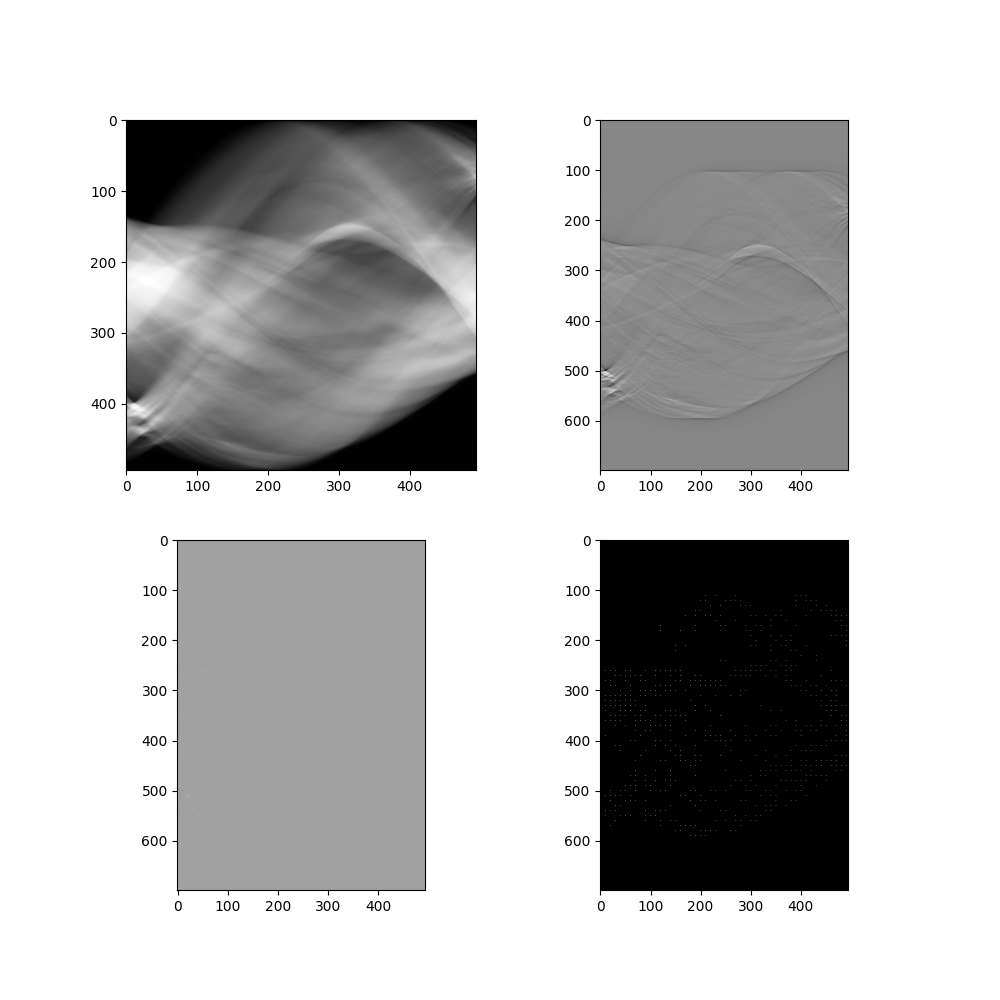
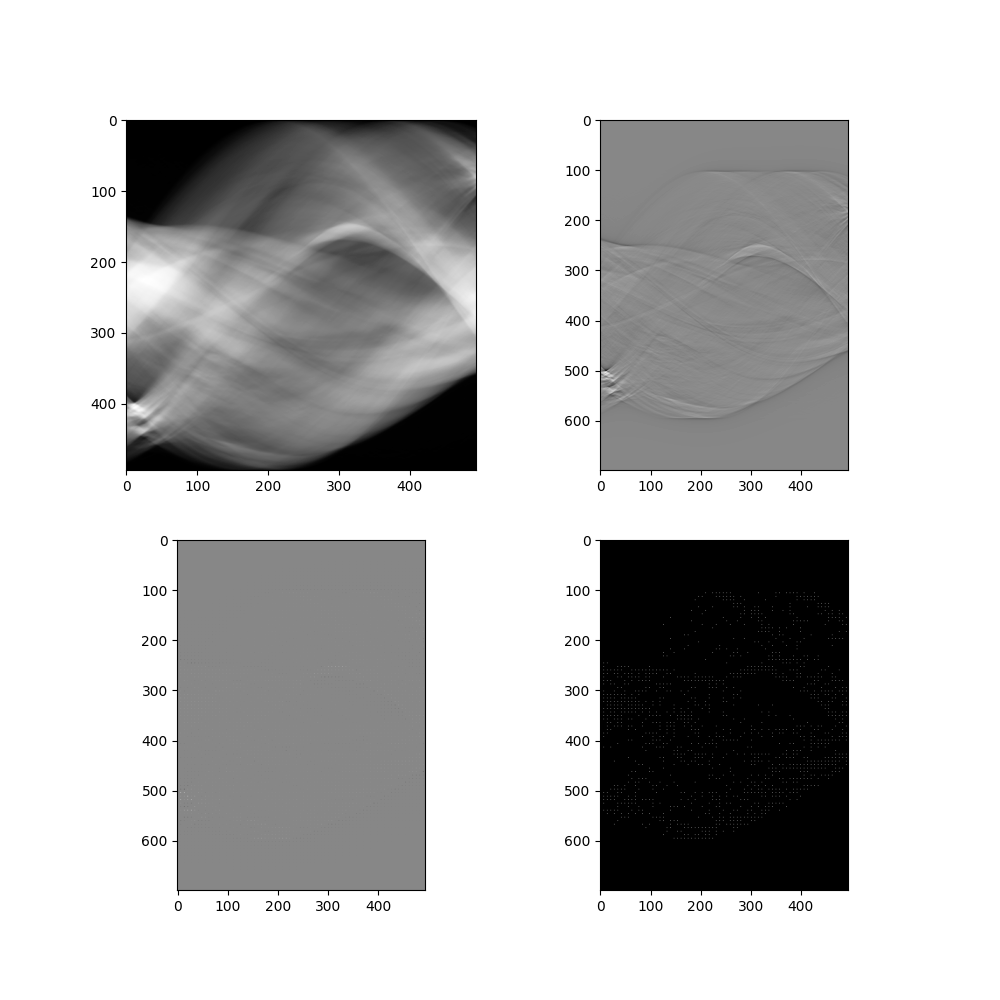
Fixed: main.py Changed: README.md

Changed region(s): [[0.155, 0.527, 0.434, 0.899]]

diff --git a/src/main.py b/src/main.py
@@ -8,7 +8,8 @@ from scipy.fft import fft, ifft
 from skimage import exposure
 import random
 import re
-# import os
+from os import listdir
+from os.path import isfile, join
 import sys
 
 """### Cчитывание картинки """
@@ -216,8 +217,25 @@ def main():
             return 0
 
     filename = "testdata/GirlwithPearl.png"
-    theta = theta = [0., 180.]
-    n = 45
+    theta = [0., 180.]
+    n = 70
+    if (len(sys.argv) == 1):
+        onlyfiles = [f for f in listdir("testdata") if isfile(join("testdata", f))]
+        print(onlyfiles)
+        for file in onlyfiles:
+            filename = "testdata/" + file
+            result = re.search(r'/\w+.\w+', filename)
+            # print(result[0] if result else 'Not found')
+            name = result[0][1:len(result[0]) - 4]
+            print(name)
+
+            art = get_stringart(filename, n_strings=n, theta=theta, name=name)
+            f = plt.figure(figsize=(10, 10))
+            plt.axis('off')
+            plt.imshow(art, cmap=plt.cm.Greys_r)
+            plt.savefig("results/" + name + "_result.png")
+            plt.show(block=True)
+        return 0
 
     if (len(sys.argv) == 2):
         filename = sys.argv[1]
@@ -239,8 +257,10 @@ def main():
     art = get_stringart(filename, n_strings=n, theta=theta, name=name)
     f = plt.figure(figsize=(10, 10))
     plt.axis('off')
-    plt.imshow(exposure.adjust_gamma(art, gamma=0.75, gain=1), cmap=plt.cm.Greys_r)
+    plt.imshow(art, cmap=plt.cm.Greys_r)
     plt.savefig("results/" + name + "_result.png")
+
+    return 0
   
 if __name__== "__main__":
   main()

diff --git a/README.md b/README.md
@@ -1,1 +1,7 @@
 # StringArt
+
+Запуск скрипта может быть произведен без парметров тогда будет взяты все картиники из "testdata/" \\
+
+Для получения списка аргументов можно запустить с аргументом -h или --help\\
+
+
